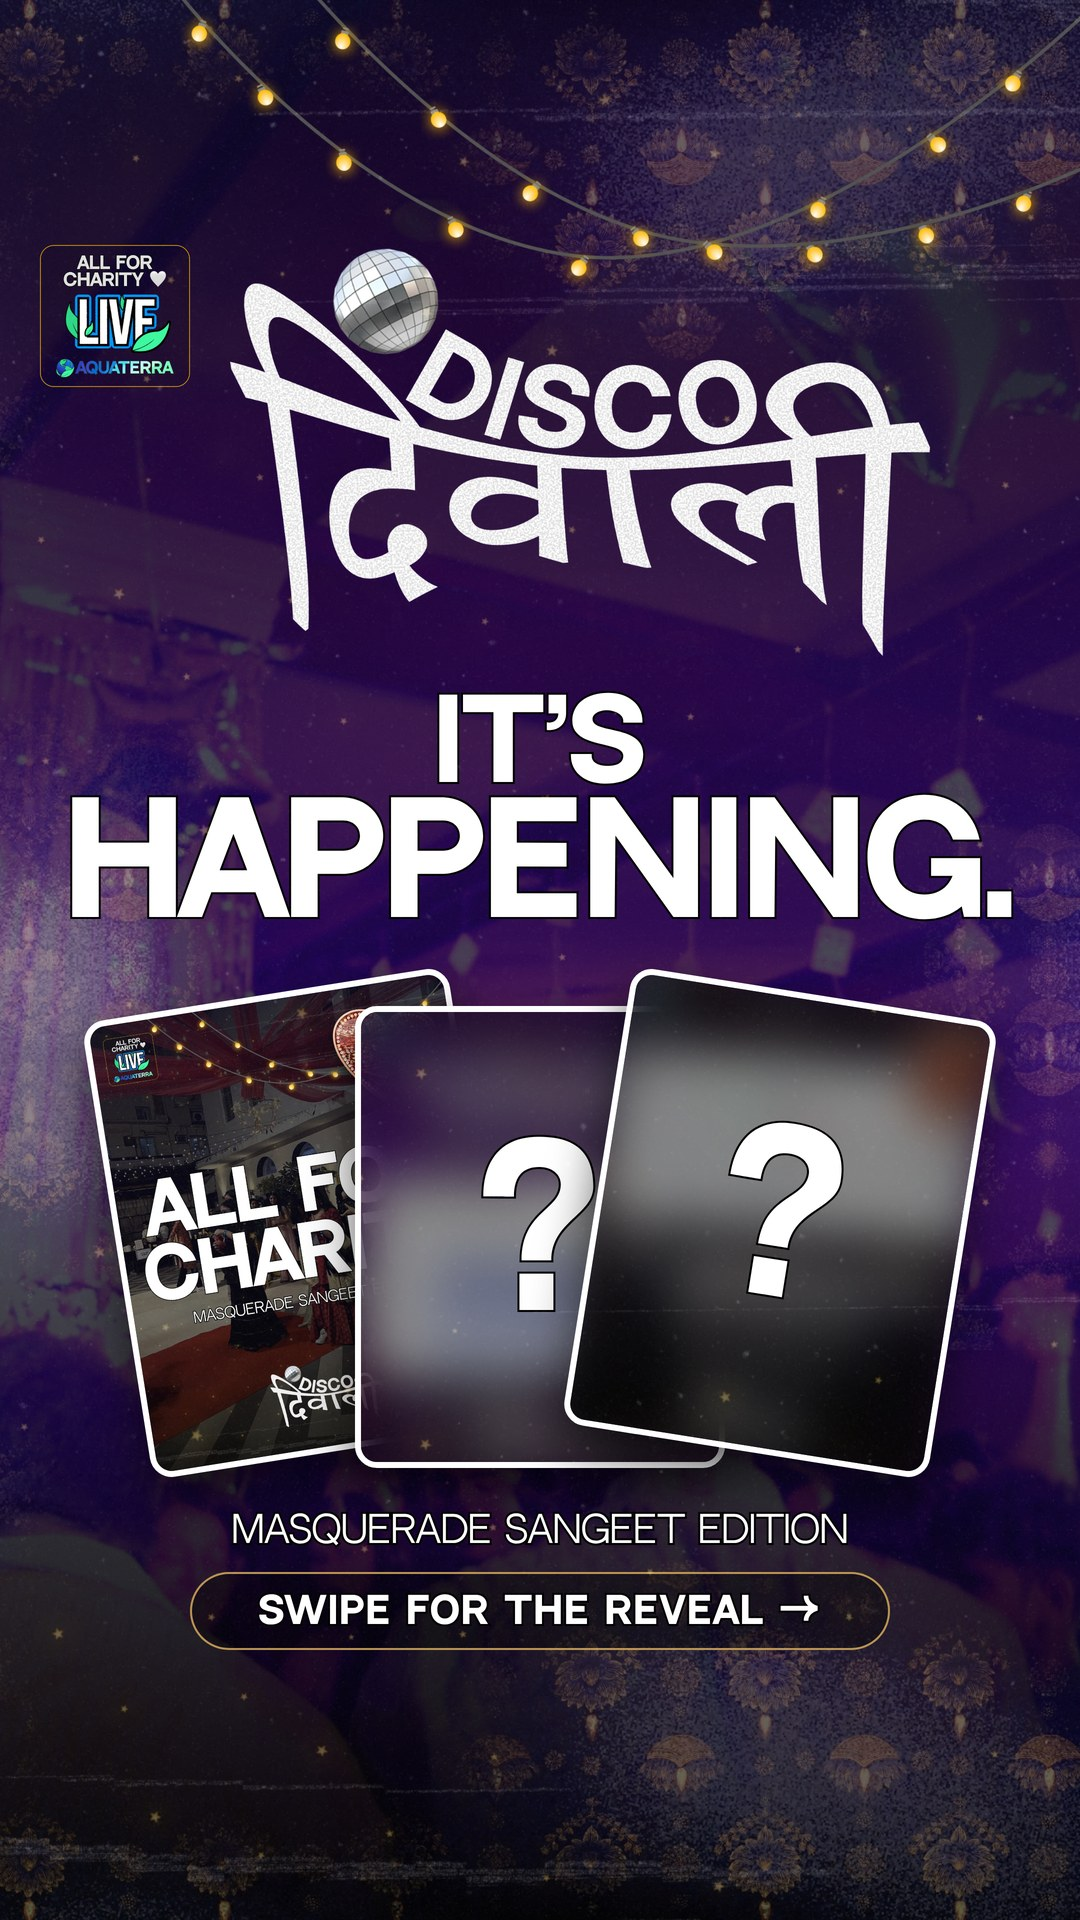
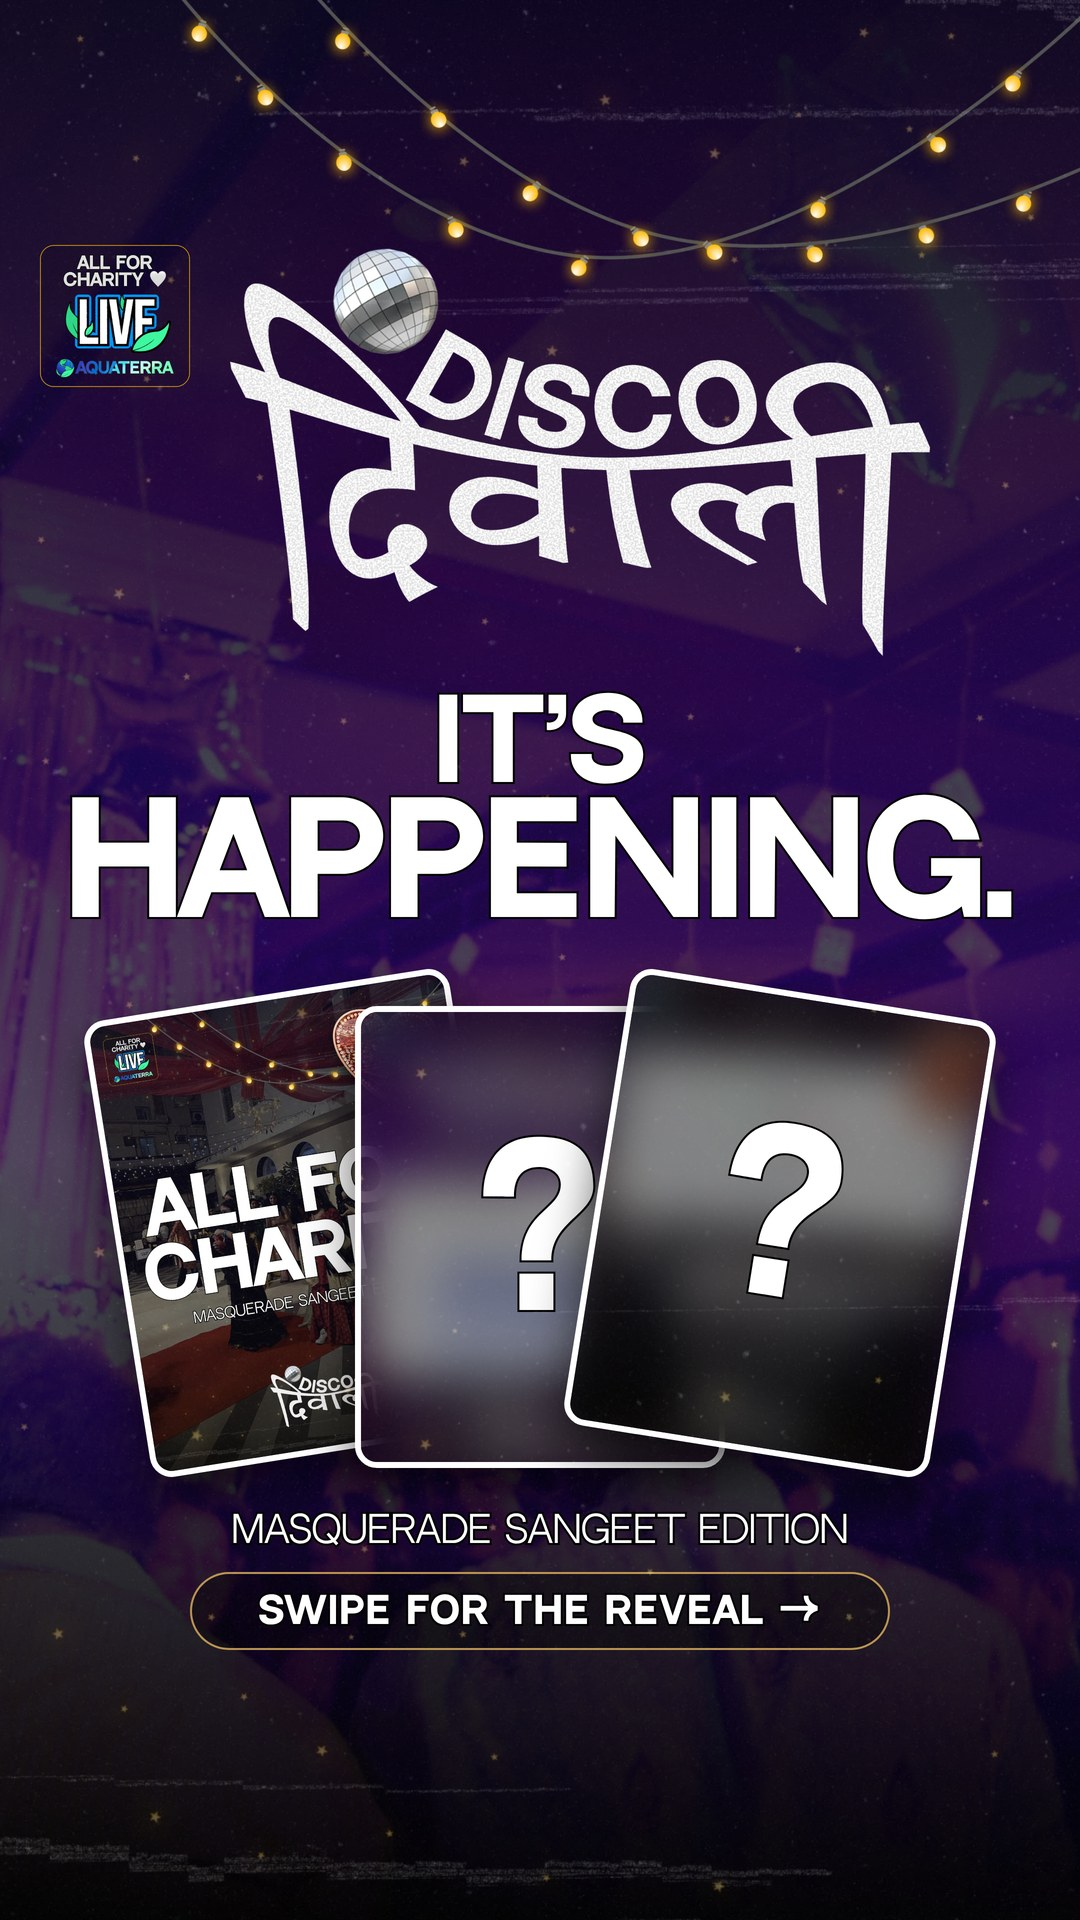
Disco Diwali carousel: stories exported; cover diya texture actually removed (plate_opacity 0), darker grade
Claude-Session: https://claude.ai/code/session_01SvqxkoTEENgXPyjFifmnqB

diff --git a/scratchpad/dd_cover.py b/scratchpad/dd_cover.py
@@ -37,7 +37,7 @@ def build(H=1350):
     CW, CH = (370, 462) if story else (330, 412)
     parts, els = [], []
     import dd_photo_bg as _pb
-    parts.append(_pb.photo_ground(dd, W, H, "14_04", "50% 35%", dim=.74, plate_opacity=.35, bright=.85))   # user, 2026-10-20: photo background (hall, purple chandelier ceiling)
+    parts.append(_pb.photo_ground(dd, W, H, "14_04", "50% 35%", dim=.74, plate_opacity=0, bright=.85))   # user, 2026-10-20: photo background (hall, purple chandelier ceiling)
     by = 245 if story else 40                                 # a story keeps the top 200px clear of Instagram's profile bar
     parts.append(f'<img data-tag="badge" src="{dd.uri("live_badge.png")}" style="position:absolute;left:40px;top:{by}px;width:150px;z-index:20">'); els.append(("badge", 40, by, 150, round(150 * 1005 / 1061)))
     # lockup with ball, top centre, visible box 265..1982 x 320..1311, drawn 560 wide

diff --git a/brain/DISCO_DIWALI.md b/brain/DISCO_DIWALI.md
@@ -100,7 +100,7 @@ Feed and story. The earlier charity slide was a block inside `dd_carousel_captch
 1080x1350, built from the carousel cover (`dd_cover.py`): lockup with ball, LIVE badge, the three fanned cards (ALL FOR CHARITY slide as is, date and location slides blurred behind "?"), the edition line, and the headline THE REVEAL IS TOMORROW. The cover's SWIPE pill is dropped (nothing to swipe on WhatsApp) and the cards are slightly bigger. It prints NO date and NO location: they are what tomorrow reveals. "Tomorrow" is the user's own statement and no calendar date is asserted, so the poster is only valid the day before the reveal. The `CLIPPED img` notes in the render log are intentional (the blurred slides are scaled 1.15x inside their cards so no edge text survives). Post this the day before the reveal, then retire it.
 
 ### Carousel photo backgrounds (2026-10-20) — `scratchpad/dd_photo_bg.py`
-User: "use a photo in the bg of the carousel", then "remove the blue diya lamp texture". The four carousel posters (cover, charity, date, location, feed and story) now sit on a real event photo instead of the diya plate: the photo graded dark (contrast 1.08), a navy-to-black scrim (heavier top and bottom so type reads), the string lights, gold dust and film grain. The navy diya texture is OFF (`plate_opacity=0`; the helper can still screen it in, and each script's `BG=diya` env restores the old ground). Frames, chosen for atmosphere with small or turned faces: cover `14_04` (hall, purple chandelier ceiling), charity `07_03` (red-drape entrance), date `14_07` (purple hall), location `07_12` (dark hall, star balloons). A first location frame (`07_09`, the courtyard crowd) read as the backs of heads and was swapped. The cover's blurred cards read the exported slide JPEGs, so re-render the slides and export them BEFORE the cover. Consent caveat applies: event photos show people, several apparent minors, with no consent record. The WhatsApp reveal-tomorrow poster still uses the diya ground.
+User: "use a photo in the bg of the carousel", then "remove the blue diya lamp texture". The four carousel posters (cover, charity, date, location, feed and story) now sit on a real event photo instead of the diya plate: the photo graded dark (contrast 1.08), a navy-to-black scrim (heavier top and bottom so type reads), the string lights, gold dust and film grain. The navy diya texture is OFF (`plate_opacity=0`; the helper can still screen it in, and each script's `BG=diya` env restores the old ground). Frames, chosen for atmosphere with small or turned faces: cover `14_04` (hall, purple chandelier ceiling), charity `07_03` (red-drape entrance), date `14_07` (purple hall), location `07_12` (dark hall, star balloons). A first location frame (`07_09`, the courtyard crowd) read as the backs of heads and was swapped. The cover's blurred cards read the exported slide JPEGs, so re-render the slides and export them BEFORE the cover. **Bug caught 2026-10-20 (found while checking the stories):** `dd_cover.py` still passed `plate_opacity=.35`, so the diya lamp texture the user had asked to remove was still faintly on the cover (feed and story) and shipped in the first merge; the darkening edit that carried that argument had been saved by an interrupted command. Now `plate_opacity=0` with `dim=.74, bright=.85` (a darker, calmer grade). The other three slides never passed the argument, so they were clean. Lesson: after any interrupted edit, grep the file for the arguments you meant to change, and look at the pixels, not just the log. Consent caveat applies: event photos show people, several apparent minors, with no consent record. The WhatsApp reveal-tomorrow poster still uses the diya ground.
 
 ### Copper stickers instead of the repeated mask (2026-10-20) — `scratchpad/dd_copper.py`, texture `engine/assets/disco_diwali/copper_texture.jpg`
 User: "use different stickers instead of the mask again and again, create something of your own of the same red copper metal style", then "make the sticker look like the mask". The carousel slides no longer all carry the mask: charity gets a HEART, date a CALENDAR (first a four-point sparkle star), location a map PIN (first a DIYA lamp), each on the corner where the mask sat. The user then asked for "a sticker for calendar and location pin" and for ALL the stickers as PNG: `scratchpad/dd_sticker_export.py` renders heart, star, diya, calendar and pin as transparent PNGs (3x, NO drop shadow so they sit on any ground, trimmed to content) into `sample_outputs/disco_diwali_stickers/copper_*.png`. Bug caught on the way: the calendar's gem gradient id was defined only inside the pin's defs, so the calendar's gem rendered as an empty ring until it got its own. Lesson: v1 drew the metal as flat vector gradients with drawn scrolls, glitter and a gem, and it read as cartoon next to the photographed mask; a vector can imitate the colour but not the surface. v2 BORROWS the surface: `copper_texture.jpg` is a patch cut from `mask_copper.png` (its beaded filigree, region 215..535 x 395..555 of the 1680x1278 asset), mirror-tiled to 1024x512, clipped into each new silhouette with a pearl-bead rim like the mask's own edge, a dark inner edge, a diagonal glint and a drop shadow. The diya flame is drawn. Rotation is baked into each SVG. The mirror tiling makes a visible kaleidoscope symmetry at close range; a second patch (D, 230..520 x 340..470) is a candidate for a less symmetric look. The cover has no mask, so it needed no sticker; its first card shows the new charity slide. The reveal-tomorrow WhatsApp poster is unchanged.
